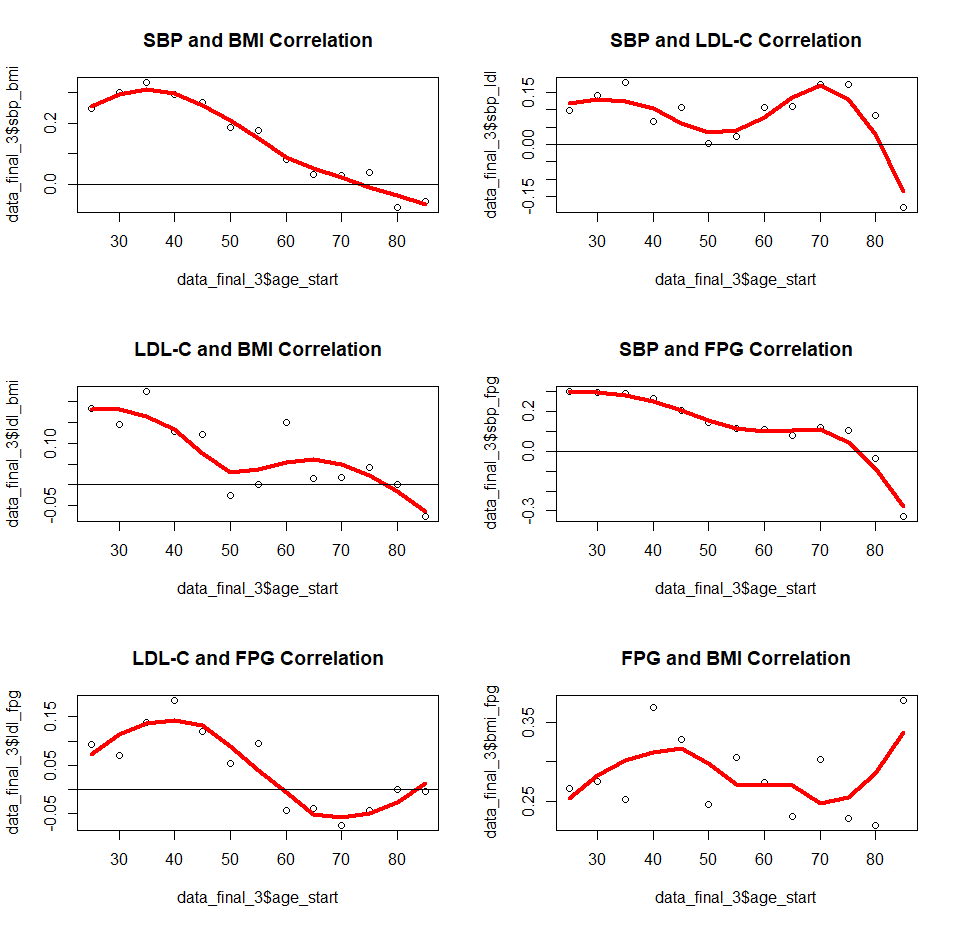
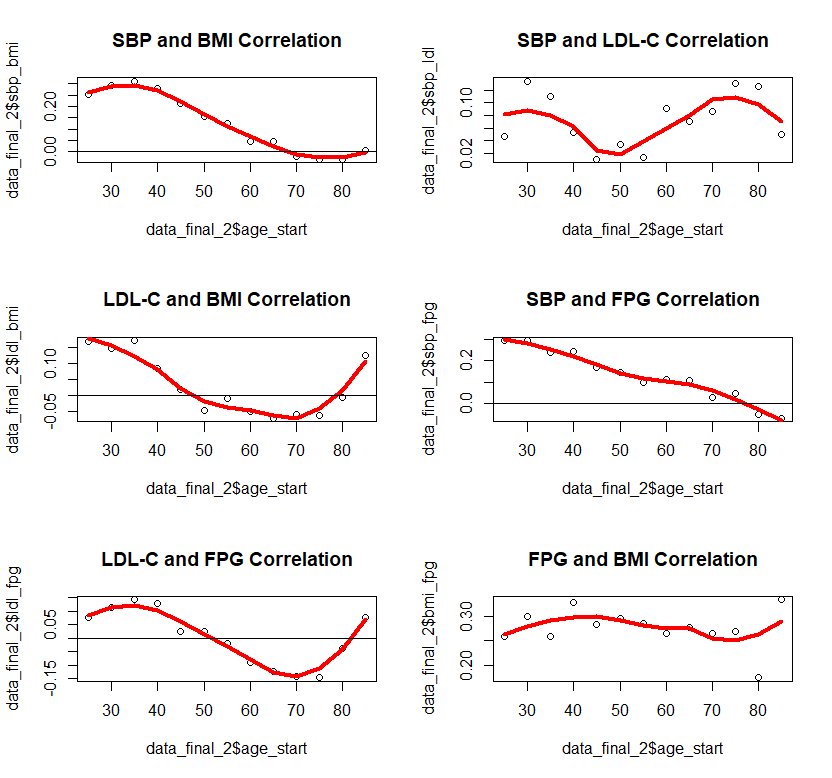
Updating to untreated being included

diff --git a/docs/source/models/risk_correlation/sbp_ldlc_fpg_bmi/index.rst b/docs/source/models/risk_correlation/sbp_ldlc_fpg_bmi/index.rst
@@ -73,7 +73,7 @@ Assumptions and Limitations
 
 #. We assign a correlation at initialization that does not change over time. For SBP and BMI which we model to change over time, this means that as simulants age, they will retain their original correlation and increasly differ from the true correlation. 
 
-#. To calculate the correlation, we limited the population to only untreated individuals. However, as our simulants receive treatments their risk exposure values will change and likely make validation more challenging. 
+#. To calculate the correlation, we included both treated and untreated individuals. This is due to how we initialize the population in the sim, which generates exposures for individuals including any relevant treatment effects. As treatment is also derived from NHANES, we feel this is a reasonable approach. However it likely includes some bias still.  
 
 Validation Criteria
 +++++++++++++++++++++
